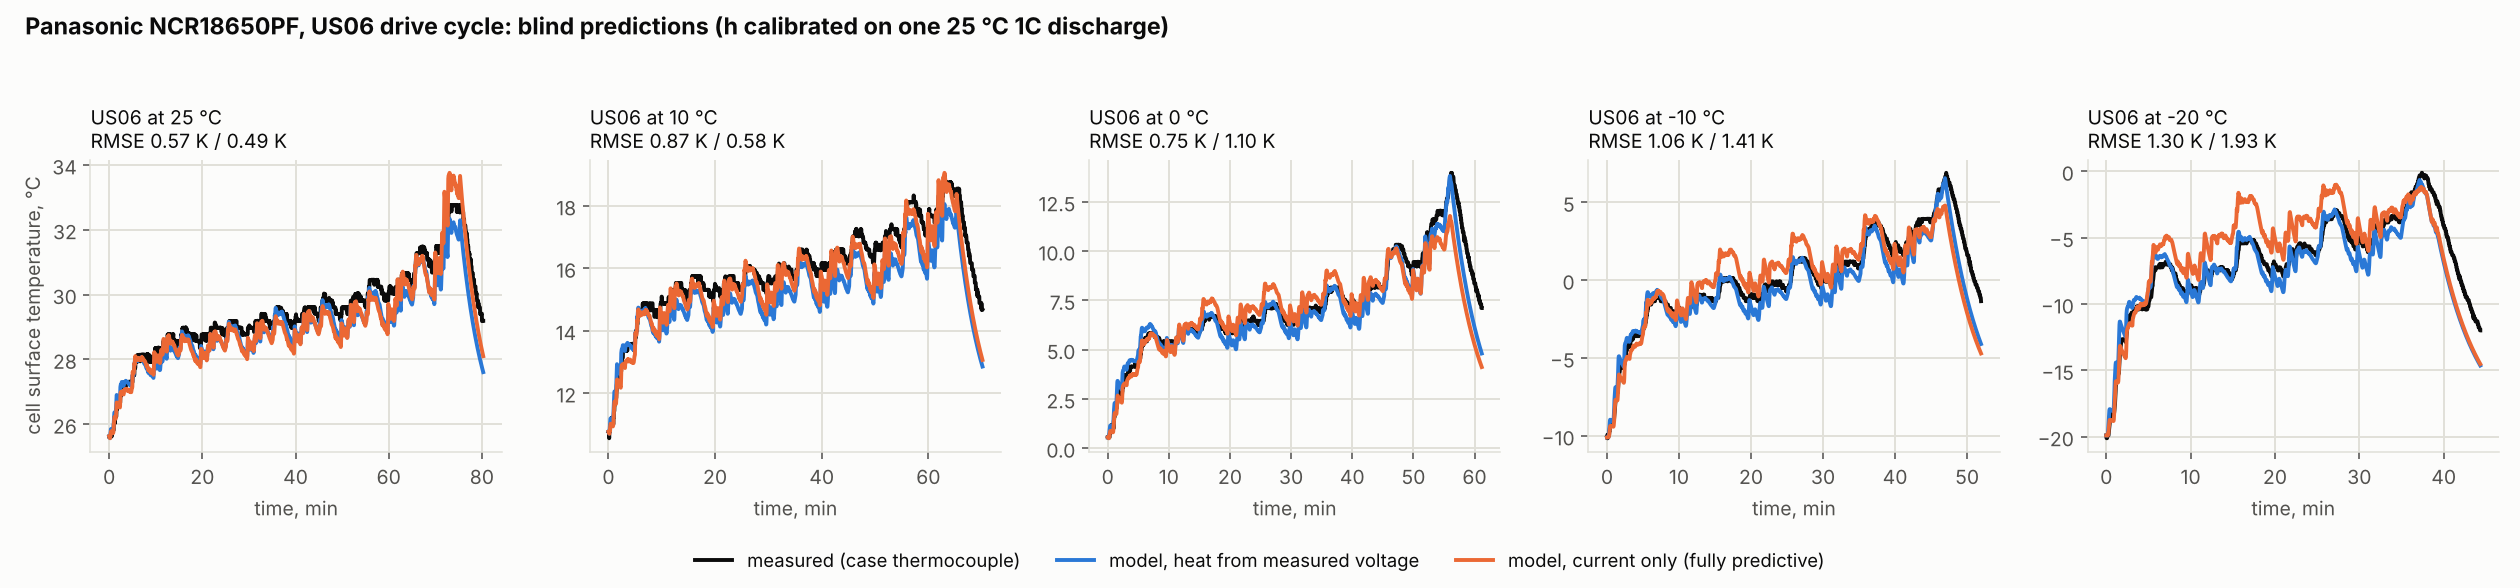
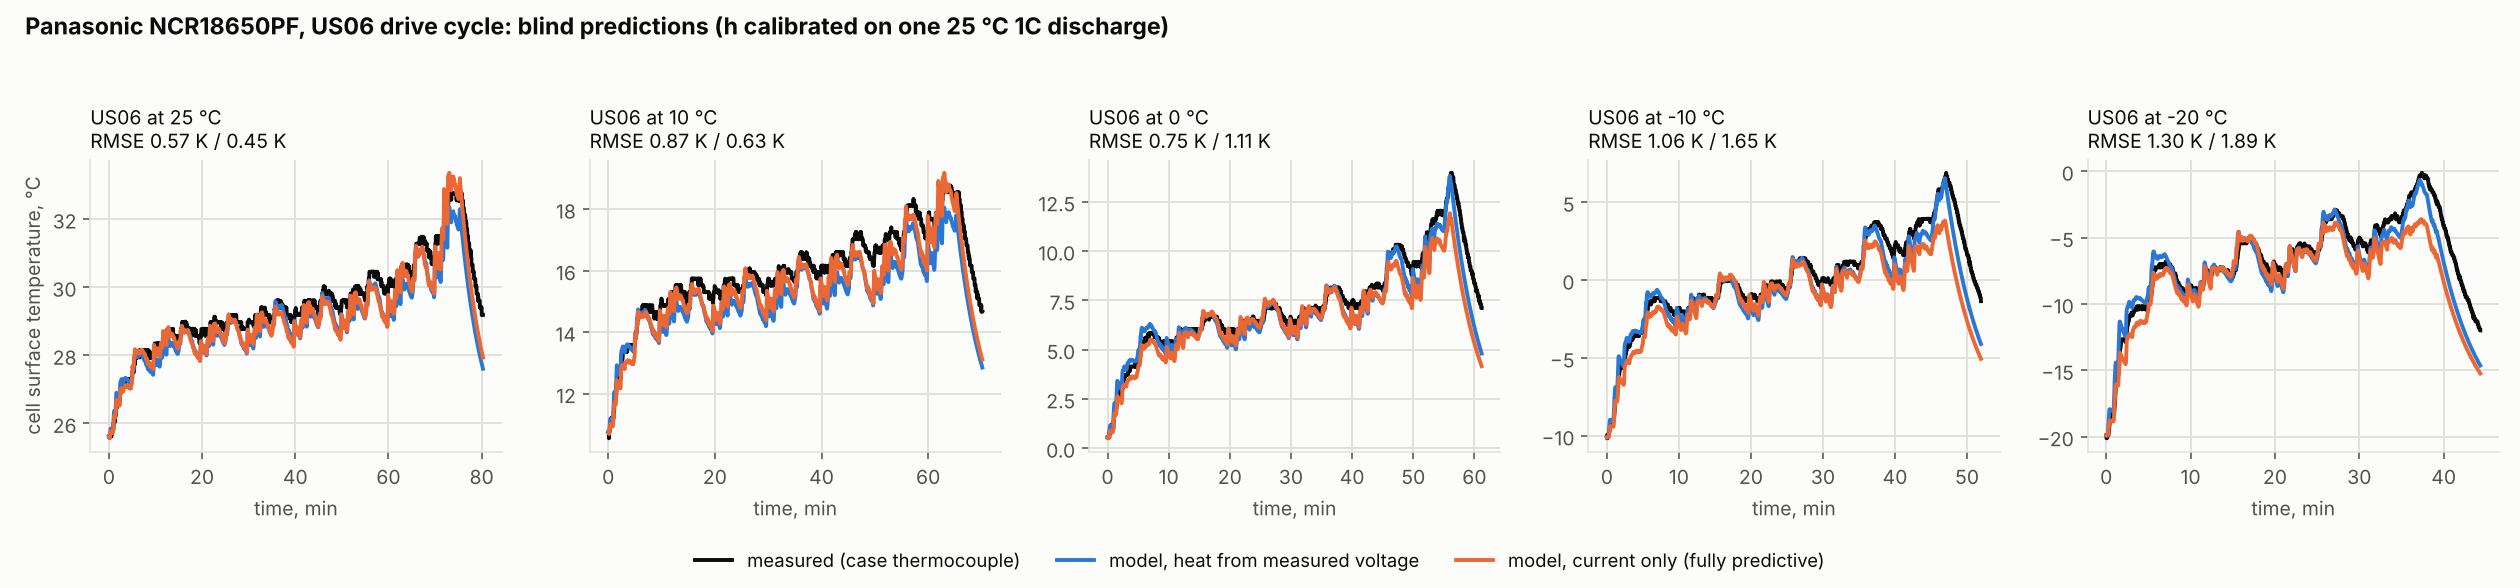
v0.4.10: cold-weather cell model (PF): temperature laws for low-SOC rise and slow branch
- ECM.Ea_soc, ECM.Ea_Rd; identified from dis5 steps (identification data)
  via identify_panasonic.cold_laws; Rd/tau re-calibrated on the single test
- blind validation: 88% of predictive tests within 1 K (was 79%), -20 degC
  median 0.73 K (was 1.28), cold voltage error roughly halved
- docs/VALIDATION.md, regenerated figures and summary, tests

Claude-Session: https://claude.ai/code/session_0145MS9KXdqAjMKf5fvLdZzN

diff --git a/src/packtherm/ecm.py b/src/packtherm/ecm.py
@@ -9,11 +9,14 @@ Terminal voltage (current I > 0 on discharge):
   lumped Butler-Volmer form, eta_ss = A(T) asinh(I / (2 I0(T))) with
   A = gamma 2RT/F, so the apparent resistance falls as current rises and
   climbs steeply in the cold. It relaxes to eta_ss with time constant tau_ct.
-* On discharge all three are scaled by a low-SOC factor 1 + soc_a exp(-SOC/soc_b)
-  (identified from discharge pulses, so not applied while charging).
+* On discharge all three are scaled by a low-SOC factor
+  1 + soc_a(T) exp(-SOC/soc_b) (identified from discharge pulses, so not
+  applied while charging). soc_a is Arrhenius in temperature when Ea_soc is
+  set, which makes the voltage knee arrive earlier in the cold.
 * V_d: a slow (diffusion) RC branch with resistance R_d(T) and time
-  constant tau_d. R_d scales with the small-signal charge-transfer
-  resistance so its temperature dependence comes from the same kinetics.
+  constant tau_d. With Ea_Rd set, R_d is Arrhenius with its own activation
+  energy; otherwise it scales with the small-signal charge-transfer
+  resistance.
 
 Irreversible heat is I (OCV - V), so every loss term heats the cell.
 Discharge stops at V_min; charging switches from constant current to
@@ -50,10 +53,13 @@ class ECM:
     # Low-SOC rise of all overpotentials: factor = 1 + soc_a exp(-SOC / soc_b).
     soc_a: float = 0.0
     soc_b: float = 0.08
+    Ea_soc: float = 0.0  # J/mol, temperature dependence of soc_a
+    Ea_Rd: float | None = None  # J/mol; None = follow the charge-transfer kinetics
     sources: tuple[str, ...] = field(default=())
 
-    def soc_factor(self, soc: float) -> float:
-        return 1.0 + self.soc_a * math.exp(-max(soc, 0.0) / self.soc_b)
+    def soc_factor(self, soc: float, T: float = T_REF) -> float:
+        a = self.soc_a * math.exp(self.Ea_soc / R_GAS * (1.0 / T - 1.0 / T_REF))
+        return 1.0 + a * math.exp(-max(soc, 0.0) / self.soc_b)
 
     def ocv(self, soc: float) -> float:
         """OCV from the table; linear extrapolation (slope of the last 5 %) outside it."""
@@ -82,6 +88,8 @@ class ECM:
         return self.A(T) / (2.0 * self.I0(T))
 
     def Rd(self, T: float) -> float:
+        if self.Ea_Rd is not None:
+            return self.Rd_25C * math.exp(self.Ea_Rd / R_GAS * (1.0 / T - 1.0 / T_REF))
         return self.Rd_25C * self.R_ct_small_signal(T) / self.R_ct_small_signal(T_REF)
 
 
@@ -97,7 +105,7 @@ class ECMState:
         e1 = math.exp(-dt / ecm.tau_ct)
         e2 = math.exp(-dt / ecm.tau_d)
         # The low-SOC rise was identified on discharge pulses; apply it on discharge only.
-        f = ecm.soc_factor(soc) if current > 0 else 1.0
+        f = ecm.soc_factor(soc, T) if current > 0 else 1.0
         eta = self.eta_ct * e1 + f * ecm.eta_ss(current, T) * (1.0 - e1)
         vd = self.V_d * e2 + f * ecm.Rd(T) * current * (1.0 - e2)
         V = ecm.ocv(soc) - current * f * ecm.R0(T) - eta - vd

diff --git a/validation/identify_panasonic.py b/validation/identify_panasonic.py
@@ -14,6 +14,13 @@ Reproduces the constants in ``packtherm.cells.NCR18650PF_ECM`` and the OCV table
 * Low-SOC factor: the ratio of measured to fitted overpotential over all
   SOCs, fitted to 1 + a exp(-SOC/b).
 
+Temperature laws (v0.4.10, ``cold_laws``): the 0.9 A discharge-and-rest steps
+between the HPPC pulse sets ("dis5_10p" files) at 25, 10, 0 and -10 degC are
+replayed through the model with the measured cell temperature; per temperature
+the slow-branch resistance and the low-SOC rise are scaled to fit the voltage,
+and Arrhenius laws are fitted across temperature (Ea_Rd, Ea_soc). The -20 degC
+file is incomplete and is not used.
+
 The slow branch (Rd, tau_d) and the chamber h are calibrated separately on the
 25 degC 1C discharge #1 by ``packtherm.validation.calibrate``.
 
@@ -99,5 +106,53 @@ def main(root: str) -> dict:
     return out
 
 
+DIS5 = {
+    25: "Panasonic 18650PF Data/25degC/5 pulse disch/03-11-17_10.10 3390_dis5_10p.mat",
+    10: "10degC/5 pulse test/03-27-17_10.29 3423_dis5_10p.mat",
+    0: "0degC/5 pulse/05-20-17_12.07 3619_dis5_10p.mat",
+    -10: "-10degC/5 pulse test/06-07-17_14.11 3740_dis5_10p.mat",
+}
+
+
+def cold_laws(root: str) -> dict:
+    """Arrhenius laws for the slow branch and the low-SOC rise (see module docstring)."""
+    from dataclasses import replace
+
+    from packtherm.cells import PANASONIC_NCR18650PF
+    from packtherm.ecm import ECMState
+
+    base = replace(PANASONIC_NCR18650PF.ecm, Ea_Rd=None, Ea_soc=0.0)
+
+    def replay(ecm, d):
+        t, I, Ah, Tk = d["Time"], -d["Current"], d["Ah"], d["Battery_Temp_degC"] + 273.15
+        st, out = ECMState(), np.empty_like(t)
+        out[0] = d["Voltage"][0]
+        for k in range(1, t.size):
+            V, eta, vd = st.step(ecm, I[k], 1 + Ah[k] / CAPACITY, Tk[k], t[k] - t[k - 1])
+            st.eta_ct, st.V_d = eta, vd
+            out[k] = V
+        return out
+
+    Ts, Rd, a = [], [], []
+    for Tn, f in DIS5.items():
+        d = load(Path(root) / f)
+        use = np.arange(d["Time"].size) >= 5
+
+        def resid(p, d=d, use=use):
+            ecm = replace(base, Rd_25C=base.Rd_25C * p[0], soc_a=base.soc_a * p[1])
+            return (replay(ecm, d) - d["Voltage"])[use]
+
+        kd, ka = least_squares(resid, [1.0, 1.0], bounds=([0.05, 0.1], [20, 20]), diff_step=1e-3).x
+        Ts.append(Tn + 273.15)
+        Rd.append(base.Rd(Tn + 273.15) * kd)
+        a.append(base.soc_a * ka)
+    x = 1 / np.array(Ts) - 1 / T25
+    Ea_Rd = np.polyfit(x, np.log(Rd), 1)[0] * R_GAS
+    Ea_soc = np.polyfit(x, np.log(a), 1)[0] * R_GAS
+    print(f"   Ea_Rd = {Ea_Rd / 1e3:.1f} kJ/mol   Ea_soc = {Ea_soc / 1e3:.1f} kJ/mol")
+    return {"Ea_Rd": Ea_Rd, "Ea_soc": Ea_soc, "Rd_by_T": dict(zip(DIS5, Rd)), "soc_a_by_T": dict(zip(DIS5, a))}
+
+
 if __name__ == "__main__":
     main(sys.argv[1])
+    cold_laws(sys.argv[1])

diff --git a/tests/test_ecm.py b/tests/test_ecm.py
@@ -121,3 +121,28 @@ def test_pf_cell_runs_through_design_path():
 def test_ecm_is_frozen_and_replaceable():
     e2 = replace(ECM_PF, Rd_25C=0.05)
     assert e2.Rd(T25) == pytest.approx(0.05)
+
+
+def test_cold_temperature_laws():
+    import math
+    from dataclasses import replace
+
+    from packtherm.cells import PANASONIC_NCR18650PF
+
+    e = PANASONIC_NCR18650PF.ecm
+    T25, Tm10 = 298.15, 263.15
+    R = 8.314462618
+    # Low-SOC rise grows in the cold with its own activation energy; unchanged at 25 degC.
+    assert e.soc_factor(0.05, T25) == pytest.approx(1 + e.soc_a * math.exp(-0.05 / e.soc_b))
+    ratio = (e.soc_factor(0.05, Tm10) - 1) / (e.soc_factor(0.05, T25) - 1)
+    assert ratio == pytest.approx(math.exp(e.Ea_soc / R * (1 / Tm10 - 1 / T25)))
+    # Slow branch: own Arrhenius law, gentler than following the charge-transfer kinetics.
+    assert e.Rd(Tm10) / e.Rd(T25) == pytest.approx(math.exp(e.Ea_Rd / R * (1 / Tm10 - 1 / T25)))
+    coupled = replace(e, Ea_Rd=None)
+    assert coupled.Rd(Tm10) > e.Rd(Tm10)
+    # Charging ignores the low-SOC factor.
+    from packtherm.ecm import ECMState
+
+    V_chg, _, _ = ECMState().step(e, -1.0, 0.05, Tm10, 1.0)
+    V_flat, _, _ = ECMState().step(replace(e, soc_a=0.0), -1.0, 0.05, Tm10, 1.0)
+    assert V_chg == pytest.approx(V_flat)

diff --git a/src/packtherm/cells.py b/src/packtherm/cells.py
@@ -307,13 +307,21 @@ NCR18650PF_ECM = ECM(
     Ea_I0=45.2e3,
     gamma=8.69,
     tau_ct=4.0,
-    Rd_25C=0.0274,  # calibrated on the 25 degC 1C discharge #1 voltage
-    tau_d=544.0,
+    Rd_25C=0.0284,  # calibrated on the 25 degC 1C discharge #1 voltage (v0.4.10 re-fit)
+    tau_d=405.0,
     V_max=4.2,
     V_min=2.5,
     cv_cutoff_A=0.05,
     soc_a=10.18,
     soc_b=0.0801,
+    # v0.4.10: temperature laws from the 0.9 A discharge-and-rest steps between
+    # the HPPC pulse sets at 25, 10, 0 and -10 degC (identification data, not
+    # in the validation set): the low-SOC rise grows in the cold (20.7 kJ/mol)
+    # and the slow branch follows its own, gentler Arrhenius law (26.8 kJ/mol)
+    # instead of the charge-transfer kinetics (45 kJ/mol). Rd_25C and tau_d
+    # re-calibrated on the same single test with these laws.
+    Ea_Rd=26.8e3,
+    Ea_soc=20.7e3,
     sources=("Kollmeyer2018",),
 )
 

diff --git a/src/packtherm/__init__.py b/src/packtherm/__init__.py
@@ -17,7 +17,7 @@ from .module import AirFlow, BottomPlate, Coolant, Interface, Layout, Module, Si
 from .params import KELVIN, PCM, Geometry, Material, Params, SolverSettings, default_params
 from .scenarios import Scenario, run_scenario, thesis_scenarios
 
-__version__ = "0.4.9"
+__version__ = "0.4.10"
 
 __all__ = [
     "CELLS",

diff --git a/docs/VALIDATION.md b/docs/VALIDATION.md
@@ -2,7 +2,7 @@
 
 **Bottom line:**
 - **Thermal model:** with one calibrated parameter, it predicts the measured surface temperature of a commercial 18650 cell within **0.59 K median RMSE** over 49 blind tests, from 25 °C down to −20 °C. That covers drive cycles, constant-current discharge and CC-CV charging.
-- **Fully predictive model** (current in, voltage and temperature out): **0.62 K median RMSE** for temperature and **19–40 mV** for voltage between 25 °C and 0 °C. Accuracy falls off below 0 °C.
+- **Fully predictive model** (current in, voltage and temperature out): **0.65 K median RMSE** for temperature, with 88 % of tests within 1 K and every ambient's median at or below 0.77 K. Voltage error is **17–34 mV** from 25 °C to 0 °C and 53–70 mV at −10 and −20 °C (v0.4.10; it was 84–177 mV).
 
 ## Data
 
@@ -19,8 +19,9 @@
 |---|---|---|
 | OCV | 25 °C C/20 discharge (+ its I·R) | `src/packtherm/data/ncr18650pf_ocv.csv` |
 | Kinetics | every HPPC pulse at all 5 temperatures (`validation/identify_panasonic.py`) | R0, Butler–Volmer charge transfer I₀(T) with Eₐ = 45 kJ/mol, low-SOC factor. 10 s overpotential within a median 5–11 % at every temperature |
+| Cold laws (v0.4.10) | the 0.9 A discharge-and-rest steps between HPPC pulse sets at 25, 10, 0, −10 °C (`cold_laws`; the −20 °C file is incomplete) | low-SOC rise Eₐ = 20.7 kJ/mol; slow branch Eₐ = 26.8 kJ/mol (re-running the script gives 20.6 and 27.1) |
 | Thermal calibration | **one test**: 25 °C 1C discharge #1, temperature | chamber h = 38.7 W/m²K |
-| Slow polarisation | the same test, voltage | R_d = 27 mΩ, τ_d = 544 s |
+| Slow polarisation | the same test, voltage | R_d = 28.4 mΩ, τ_d = 405 s |
 | **Validation** | the other **48 tests, blind** | below |
 
 Two modes are reported for every test:
@@ -36,13 +37,15 @@ Other details:
 
 | Ambient | Tests | Thermal mode: median RMSE / worst peak error | Predictive: median RMSE / worst peak error | Predictive voltage RMSE (median, before end-of-discharge knee) |
 |---|---|---|---|---|
-| 25 °C | 13 | 0.53 K / 1.1 K | 0.46 K / 1.5 K | 19 mV |
-| 10 °C | 9 | 0.67 K / 0.9 K | 0.59 K / 2.0 K | 21 mV |
-| 0 °C | 9 | 0.56 K / 0.7 K | 0.79 K / 2.2 K | 40 mV |
-| −10 °C | 9 | 0.59 K / 0.5 K | 0.67 K / 2.1 K | 84 mV |
-| −20 °C | 9 | 0.72 K / 1.3 K | 1.28 K / 3.4 K | 177 mV |
+| 25 °C | 12 | 0.53 K / 1.1 K | 0.45 K / 1.4 K | 17 mV |
+| 10 °C | 9 | 0.67 K / 0.9 K | 0.60 K / 1.6 K | 22 mV |
+| 0 °C | 9 | 0.56 K / 0.7 K | 0.77 K / 2.0 K | 34 mV |
+| −10 °C | 9 | 0.59 K / 0.5 K | 0.70 K / 3.1 K | 53 mV |
+| −20 °C | 9 | 0.72 K / 1.2 K | 0.73 K / 3.5 K | 70 mV |
 
-The measured rises go up to 20 K in the cold. 96 % of thermal-mode tests and 80 % of predictive tests are within 1 K RMSE. Full per-test table: [`validation/summary.csv`](validation/summary.csv).
+v0.4.10 compared with v0.4.9 (same 48 blind tests): predictive tests within 1 K 79 % → 88 %; −20 °C median 1.28 → 0.73 K; cold voltage error roughly halved. The worst cold peak errors changed sign: the model used to over-predict heat in the cold (+3.4 K worst, the safe side for design) and now under-predicts it slightly (−3.5 K worst, cold heat 7–10 % low on average).
+
+The measured rises go up to 20 K in the cold. 96 % of thermal-mode tests and 88 % of predictive tests are within 1 K RMSE. Full per-test table: [`validation/summary.csv`](validation/summary.csv).
 
 ![US06 at every ambient](validation/traces.png)
 ![Errors for every test](validation/errors.png)
@@ -56,9 +59,9 @@ The measured rises go up to 20 K in the cold. 96 % of thermal-mode tests and 80 
   - The CC-CV logic tracks the measured current taper.
 - **Calibrated, not predicted:** h is a property of *this chamber*, not of the cell. In a design study h is the design variable, so calibrating it here is appropriate.
 - **Known gaps:**
-  - At −20 °C the predictive mode overestimates heat by up to 3.4 K (on the safe side for design), and voltage error rises to about 180 mV. Charge-transfer kinetics at high current in deep cold are only partly captured by one Butler–Volmer term.
-  - **Cold capacity loss:** near the end of discharge below 0 °C, the cell reaches cut-off earlier than the 25 °C capacity implies. That's why voltage error is reported before the knee.
-  - **Entropic heat** is neglected for this NCA cell (no dU/dT data in the dataset). The charge is about 1.1–1.5 K under-predicted in both modes, consistent with missing reversible heat.
+  - **Deep cold (v0.4.10):** the low-SOC rise now grows in the cold, so the voltage knee arrives earlier (the cold capacity loss), and the slow branch follows its own Arrhenius law. Both laws come from identification data, not the validation tests. In the cold the predictive model now under-predicts heat by 7–10 % on average (worst peak −3.5 K at −20 °C): a slow-branch law fitted at 0.3C is a little too gentle for drive-cycle currents. Following the charge-transfer kinetics instead over-predicts by a similar amount, so the true behaviour sits between the two.
+  - **Cold capacity loss** is now modelled through that low-SOC rise; voltage error is still reported before the knee for comparability.
+  - **Entropic heat** is still neglected for this NCA cell (no dU/dT data in the dataset). The charge is about 1.1–1.4 K under-predicted in both modes, consistent with missing reversible heat. Published NCA/graphite profiles disagree on the sign over the relevant SOC range (one study reports entropic heat strongly negative on charge, which would make the error worse), so no literature curve is applied; a potentiometric measurement on this cell would settle it.
   - **Single cell, thermocouple on the surface:** core temperature is not validated directly. The model's in-cell gradient is up to about 2.8 K at 2C (25 °C). Core-temperature datasets for the LG M50 (Warwick, Mendeley bf6fksxpp2) would close this gap, but they are not reachable from this build environment.
 
 ## Reproduce

diff --git a/docs/BACKLOG.md b/docs/BACKLOG.md
@@ -25,7 +25,7 @@ A review of the model and advisor as of v0.3.1, ranked by how much each item cou
 1. ~~Isolated-cell assumption~~ **Addressed in v0.4** by `packtherm.module`: packed unit cell, cold-plate and ribbon contact, coolant rise. **Advisor moved onto the module model in v0.4.1.** **2D bottom plate done in v0.4.8.** Original note: **Isolated-cell assumption.** Each cell gets a uniform h around its whole circumference, and natural convection treats it as alone in free air. In a module, neighbouring cells block most of that path, and a cold plate touches only part of each can. Natural-cooling and liquid-cooling results are both optimistic. **Fix in v0.4:** a module unit cell (square/hex packing, contact fraction to the plate, coolant temperature rise along the plate).
 2. ~~Per-cell PCM sleeve~~ **Addressed in v0.4:** PCM and composite PCM now fill the inter-cell gaps of the module model. Composite properties follow one published formulation (Yu 2023); other EG loadings are available via `composite_pcm(k=..., paraffin_mass_fraction=...)`. Original note: **PCM as a per-cell sleeve inside a 1 mm Al tube.** The sleeve alone adds about 19 % of cell mass, and packs are not built this way. Real PCM packs use a matrix between cells, often expanded-graphite composite with k of 3–10 W/m·K rather than 0.2. **Fix:** composite-PCM grades and module-level PCM geometry (v0.4).
 3. ~~Lumped DC resistance~~ **Done in v0.3.2** for the NCR18650PF: an equivalent circuit with Butler–Volmer kinetics and a slow RC branch, validated on 49 tests (docs/VALIDATION.md). **Still open:** the M50 and MJ1 have no measured data in reach (the Warwick M50 data is not reachable from the build environment), so they still use lumped DCIR.
-4. ~~No CV taper~~ **Done in v0.3.2.** **Still open:** capacity does not depend on temperature (cold capacity loss near cut-off below 0 °C), deep-cold kinetics at high current (−20 °C predictive heat up to +3.4 K), and the NCA entropic coefficient (charge under-predicted by about 1.1–1.5 K).
+4. ~~No CV taper~~ **Done in v0.3.2.** ~~Cold capacity loss, deep-cold kinetics~~ **Improved in v0.4.10:** temperature laws for the low-SOC rise (20.7 kJ/mol) and the slow branch (26.8 kJ/mol) from identification data; 88 % of blind tests within 1 K (was 79 %), −20 °C median 0.73 K (was 1.28). **Still open:** cold drive-cycle heat now 7–10 % low (the slow-branch law, fitted at 0.3C, is slightly too gentle at drive-cycle currents); the NCA entropic coefficient (charge under-predicted by 1.1–1.4 K; published NCA profiles disagree on the sign, so none is applied).
 5. ~~1D radial model only~~ **Done in v0.4.8** for bottom plates: an axisymmetric radius × height model (`packtherm.model2d`), checked against the exact steady solution. **Still open:** tab heating and top-side (tab/busbar) cooling are not modelled; the 2D run is about 2.5× slower than the radial one.
 6. ~~Pump power inconsistency~~ **Fixed in v0.4.1:** the module advisor computes pump and fan power from flow and pressure drop. **Whole loop done in v0.4.5:** pump power covers module + rest-of-loop pressure drop at a datasheet efficiency, and the radiator fan is charged. **Still open:** the radiator fan share (3 % of rejected heat) is an assumption; ram air at speed would make it smaller; chiller idle losses and the condenser fan are not modelled. Original note: **Pump power inconsistency.** The module model computes pump power from flow (about 2 mW per cell at the reference flow) and fan power (about 170 mW per cell). The design advisor still uses the thesis anchors (liquid about 400 mW per cell), which overstate liquid-cooling energy by about 200×. Fix by moving the advisor onto `packtherm.module`. Also: **fan-law anchors are the thesis estimates**, and the h^3.75 law assumes turbulent flow. Laminar cold-plate channels behave differently, where h is set by geometry more than flow. Needs a cold-plate design reference.
 7. ~~Fixed chiller COP, no heat leak~~ **Done in v0.4.4:** COP falls with ambient (Carnot share), heat leaking in from a hot day is charged, and the chiller runs during the event then hands back to the radiator. **Still open:** the Carnot share (0.42) and the 9 h pack time constant are single-source assumptions; the leak heat is charged to the chiller but does not warm the cells in the thermal model; chiller idle losses are not modelled.

diff --git a/CHANGELOG.md b/CHANGELOG.md
@@ -1,5 +1,14 @@
 # Changelog
 
+## 0.4.10
+- **Cold-weather cell model** (Panasonic NCR18650PF): two temperature laws identified from the 0.9 A discharge-and-rest steps between the HPPC pulse sets at 25, 10, 0 and −10 °C (identification data, not in the validation set; `identify_panasonic.cold_laws`):
+  - the low-SOC rise grows in the cold (`ECM.Ea_soc`, 20.7 kJ/mol), so the voltage knee arrives earlier: the cold capacity loss;
+  - the slow branch follows its own Arrhenius law (`ECM.Ea_Rd`, 26.8 kJ/mol) instead of the charge-transfer kinetics (45 kJ/mol), which made it about twice too large at 0 to −10 °C.
+  - R_d and τ_d re-calibrated on the same single test with these laws (28.4 mΩ, 405 s).
+- **Blind validation (48 tests), predictive mode:** within 1 K 79 % → 88 %; −20 °C median 1.28 → 0.73 K; cold voltage error 177/84/40 → 70/53/34 mV at −20/−10/0 °C; overall median 0.63 → 0.65 K. In the cold the model now under-predicts heat by 7–10 % (worst −3.5 K) where it used to over-predict (worst +3.4 K). Thermal mode unchanged.
+- **Not changed:** NCA entropic heat. Published NCA/graphite profiles disagree on the sign over the SOC range that matters, so no curve is applied (see docs/VALIDATION.md).
+- The four combinations of the two laws were compared on the blind tests before choosing; only the M50/MJ1-independent PF electrical model changes.
+
 ## 0.4.9
 - **Side ribbon on a strip of the can** (`model2d.simulate_rtheta`, `model2d.Strip`): ribbons are now solved on a radius × angle grid (12 slices over half the circumference, by symmetry). The ribbon cools the can over its contact share; heat reaches it round the circumference along the spiral winding (in-plane conductivity, as along the height) and through the steel can (0.25 mm, 50 W/m·K, assumption). `simulate_module(..., n_theta=0)` keeps the radial model with the contact spread evenly.
 - The 2D bottom-plate and ribbon grids share one solver core (`model2d._run`), which reports heat and sink flows per whole cell when the grid covers a symmetric part.

diff --git a/README.md b/README.md
@@ -263,7 +263,7 @@ print(res.T_max.max() - 273.15, res.pcm_fraction.max(), res.balance_error_pct)
 | **v0.4.7** ✅ | Coolant thermal mass in the channel |
 | **v0.4.8** ✅ | 2D (radius × height) bottom-plate model |
 | **v0.4.9** ✅ | Side ribbon on a strip of the can (radius × angle model) |
-| v0.4.x | Remaining accuracy items in [docs/BACKLOG.md](docs/BACKLOG.md) (cell-model gaps) |
+| **v0.4.10** ✅ | Cold-weather cell model: temperature laws for the low-SOC rise and slow branch (88 % of blind tests within 1 K) |
 | v0.5 | Web app and API |
 
 ## Repository layout
